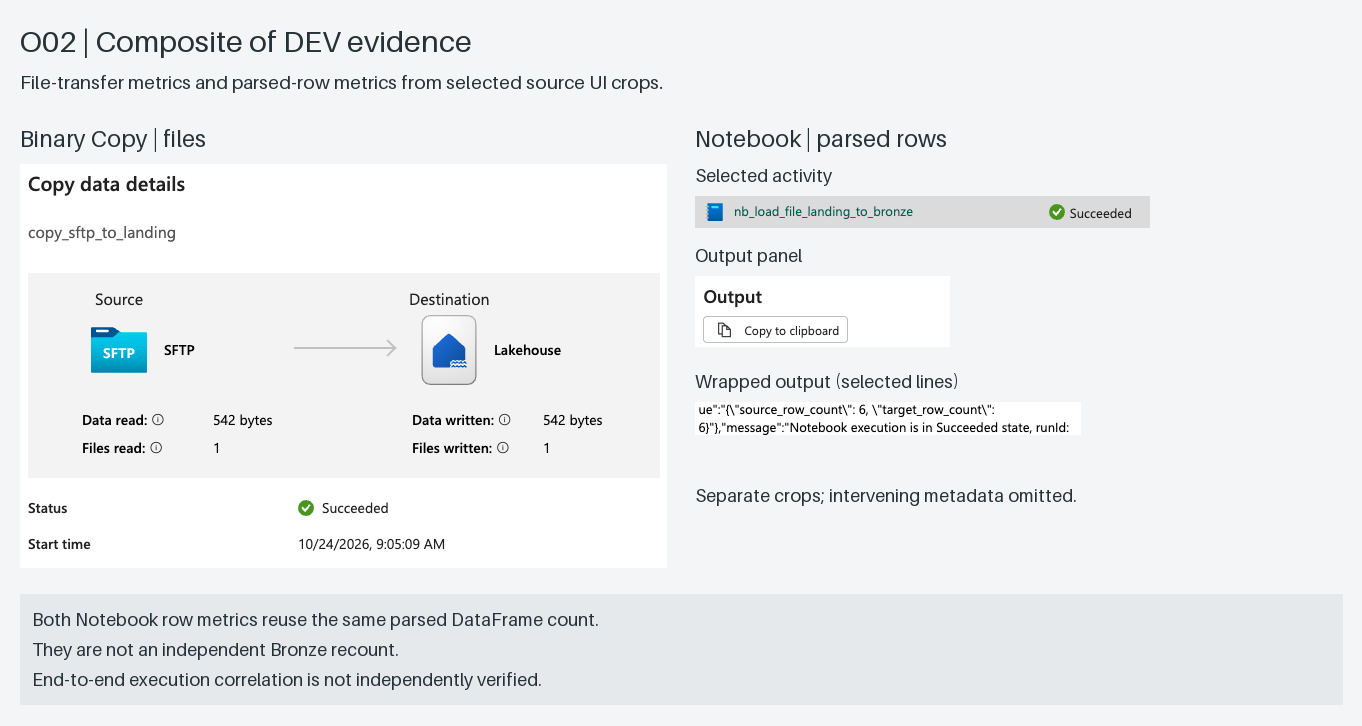
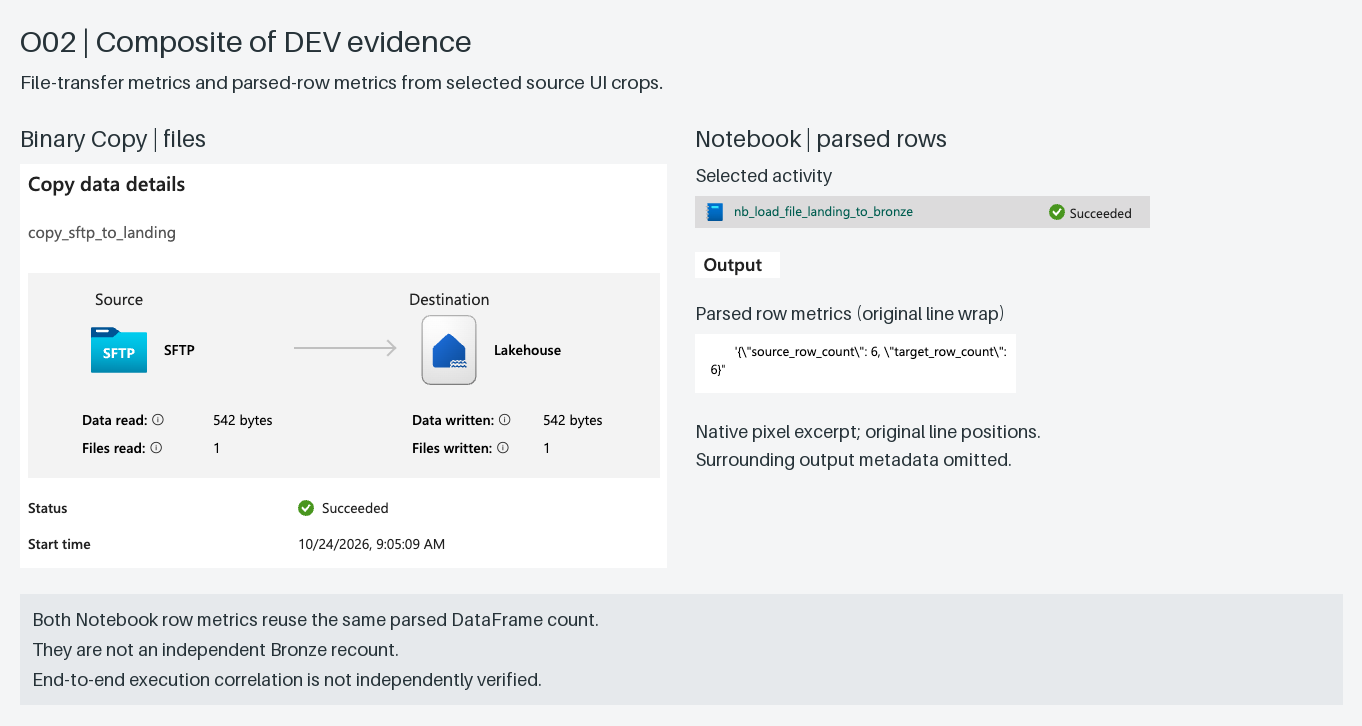
docs: refine O02 Notebook evidence crop

Changed region(s): [[0.4934, 0.3333, 0.8018, 0.697]]

diff --git a/scripts/evidence/build_sftp_composites.py b/scripts/evidence/build_sftp_composites.py
@@ -4,6 +4,9 @@ Reproduce from the repository root:
     python -m pip install Pillow==11.3.0
     python scripts/evidence/build_sftp_composites.py
 
+Rebuild only O02:
+    python -c "from scripts.evidence.build_sftp_composites import build_o02; build_o02()"
+
 O02 uses separated UI crops to omit operational/environment identifiers.
 Crop boxes are (left, top, right, bottom); destination rectangles are (x, y, w, h).
 """
@@ -122,14 +125,25 @@ def build_o02():
     sources = [paste_source(canvas, source_dir / "cx-o02-binary-copy.png",
                             [((1073, 18, 1720, 422), (20, 164))])]
     label(canvas, (695, 164), "Selected activity", 18)
-    label(canvas, (695, 244), "Output panel", 18)
-    label(canvas, (695, 370), "Wrapped output (selected lines)", 18)
+    label(canvas, (695, 302), "Parsed row metrics (original line wrap)", 18)
+    ImageDraw.Draw(canvas).rectangle((695, 334, 1015, 392), fill="white")
+    # Clip surrounding metadata from each line of the serialized metrics object.
+    # Both strips use the SAME source-to-canvas translation: no token reflow,
+    # joining of labels/values, or reconstruction of source UI text.
+    metric_boxes = [(1288, 725, 1564, 741), (1262, 744, 1278, 758)]
+    metric_crops = [(box, (box[0] - 553, box[1] - 381)) for box in metric_boxes]
     sources.append(paste_source(canvas, source_dir / "cx-o02-notebook-parse.png", [
         ((90, 835, 545, 867), (695, 196)),
-        ((1255, 554, 1510, 625), (695, 276)),
-        ((1260, 725, 1646, 758), (695, 402)),
+        ((1255, 562, 1340, 588), (695, 252)),
+        *metric_crops,
     ]))
-    label(canvas, (695, 484), "Separate crops; intervening metadata omitted.", 18)
+    sources[-1]["crop_method"] = (
+        "Serialized metrics object clipped line by line, retaining original relative "
+        "positions and wrapping. Surrounding output metadata omitted; no token reflow "
+        "or text reconstruction. Activity and Output heading are separate context crops."
+    )
+    label(canvas, (695, 420), "Native pixel excerpt; original line positions.", 18)
+    label(canvas, (695, 448), "Surrounding output metadata omitted.", 18)
     ImageDraw.Draw(canvas).rectangle((20, 594, 1342, 704), fill="#E6E9EC")
     label(canvas, (32, 608), "Both Notebook row metrics reuse the same parsed DataFrame count.", 18)
     label(canvas, (32, 638), "They are not an independent Bronze recount.", 18)

diff --git a/.project-handoff/PROJECT_HANDOFF.md b/.project-handoff/PROJECT_HANDOFF.md
@@ -270,6 +270,7 @@ See `docs/architecture/database-copy-performance.md`; DO NOT rely solely on this
 - Created C12 `docs/assets/screenshots/composites/c12-sftp-new-file-incremental.png` (1450x804) from four complete native S4 images, ordered Watermark Before, SUCCESS Audit Record, Bronze Source-File Lineage, Watermark After. Integrated under terminal audit verification with the limited S4 claim above. The guide explicitly distinguishes C08/C09 from C12 as different DEV execution examples.
 - C12 visibly states: "Run type is not visible; some run identifiers are truncated. Exact execution correlation is not independently verified." No missing identifiers, values, timestamps, or remote Last Modified observations were invented.
 - Created O02 `docs/assets/screenshots/composites/o02-file-vs-row-count.png` (1362x726) and integrated under `Transfer consistency` in `docs/architecture/file-ingestion-design.md`. Two panels retain genuine native Copy details and separated Notebook activity/Output/metric crops. Operational/environment identifiers and intervening metadata are omitted from the derived presentation; both originals remain unchanged. Binary Copy reports 1/1 files and the Notebook reports 6/6 rows. Both row metrics reuse the same parsed DataFrame count, not an independent Bronze recount; exact end-to-end correlation is not independently verified.
+- O02 visual follow-up: clipped the complete serialized metrics object line by line while retaining native pixels, original relative positions, and original wrapping. Removed the partial leading token and trailing Run ID text; compacted Notebook context crops. Binary Copy, evidence limitations, original screenshots, published Markdown, and C07/C08/C09/C12 remain unchanged. The updated 1362x726 preview awaits final owner approval. The manifest records the clipping method and revised crop rectangles; deterministic rebuild and exact pixel preservation were verified.
 - Rebuild both with Python and `Pillow==11.3.0` using `scripts/evidence/build_sftp_composites.py`. Adjacent `.manifest.json` files record original paths, SHA-256 hashes, original/output dimensions, crop/destination rectangles, supported claims, and limitations without transcribing operational identifiers into metadata. C12 uses complete screenshots; O02 uses explicitly separated UI crops. Neither resizes or retouches evidence pixels.
 - Validation covers PNG integrity, exact native source/crop pixels, unchanged original Git blobs, reproducible PNGs/manifests, visual readability/privacy, relative image and full-size links, approved placements/captions, preserved explanations/Mermaid, inventory scope, and complete Git diff. Only ten processed Batch D source rows are updated; C12/O02 derived rows are added. Unselected CX-S1 and other evidence states remain unchanged.
 - Implementation branch: `docs/evidence-curation`; commit message: `docs: integrate SFTP ingestion evidence`. Owner review/merge of this batch remains pending. O01 still requires additional correlation evidence; Batch E and later work require separate authorization.
